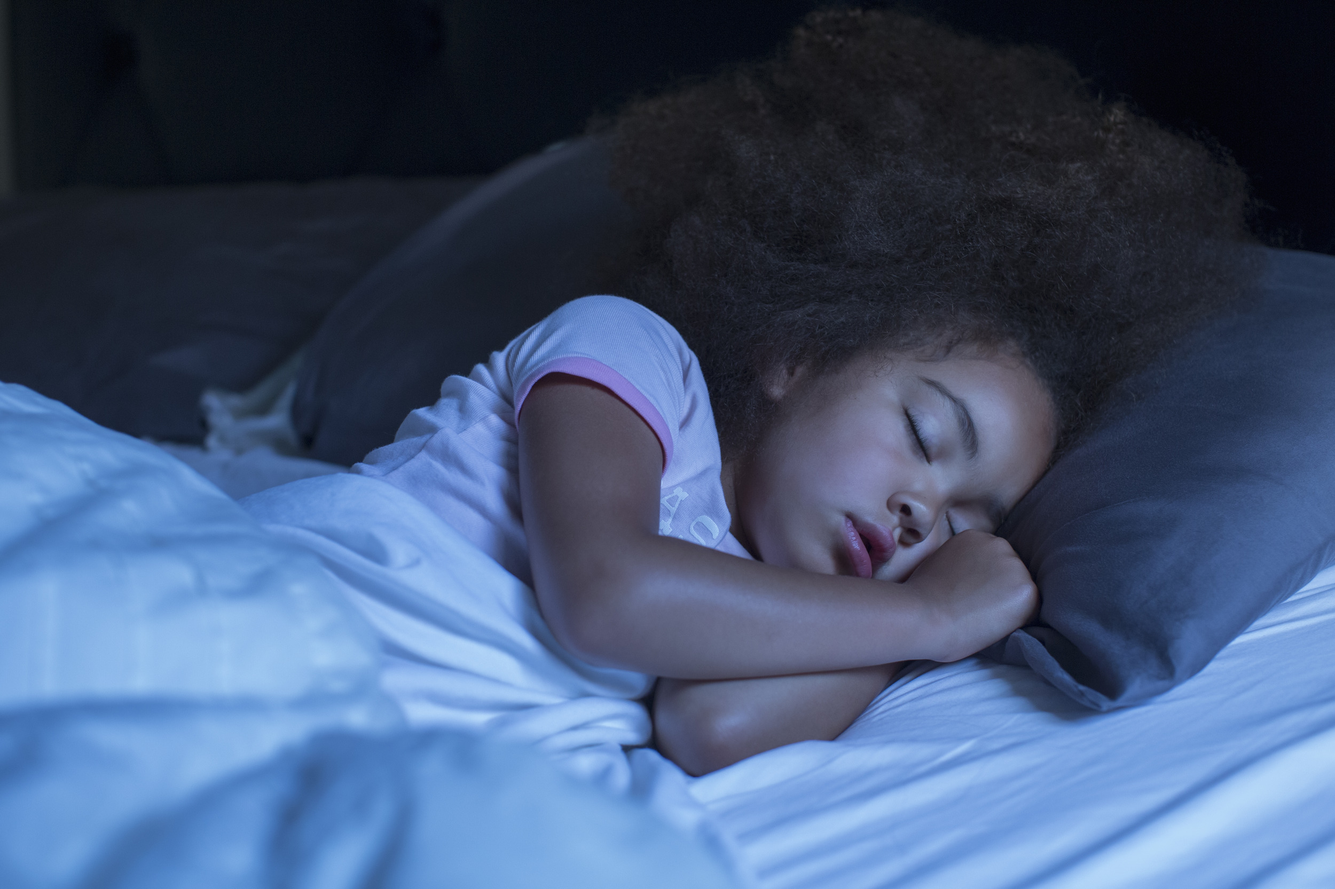
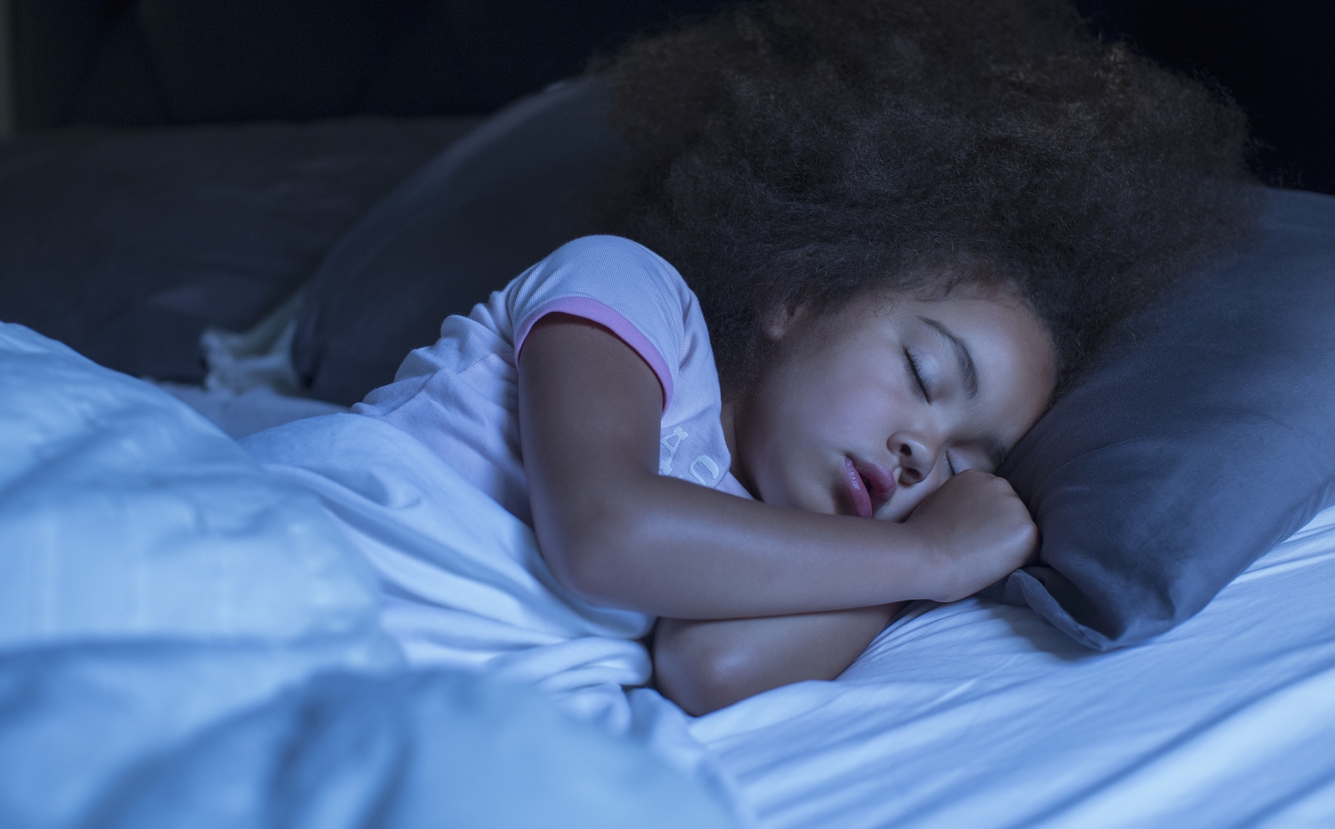
cropped header foto

diff --git a/css/style.css b/css/style.css
@@ -1011,7 +1011,7 @@ body {
 	}
 
 .header-foto {
-	background: #1C1C1C url("../img/sleeping_girl.jpg") no-repeat center top;
+	background: #1C1C1C url("../img/sleeping_girl1.jpg") no-repeat center top;
 	/*-webkit-background-size: auto 700px;
 	-moz-background-size: auto 700px;*/
 	background-size: cover;
